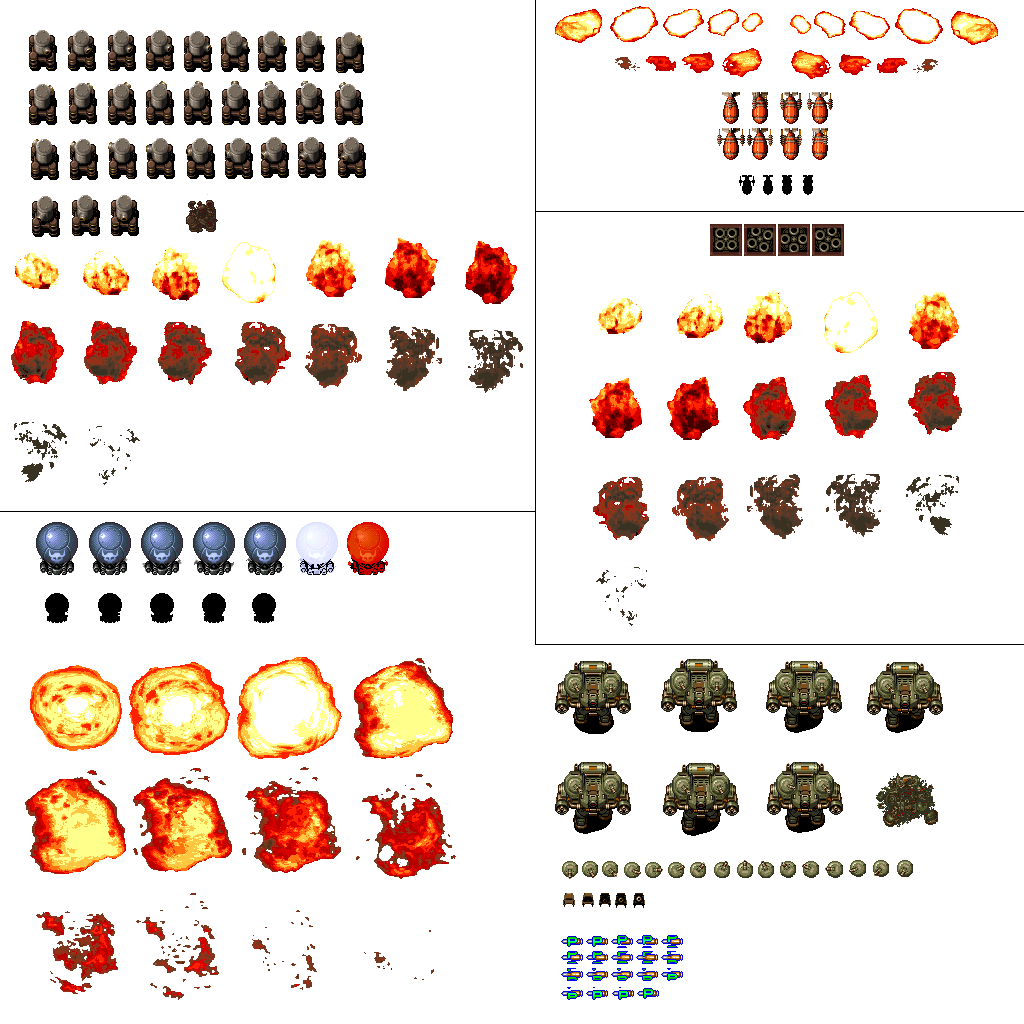
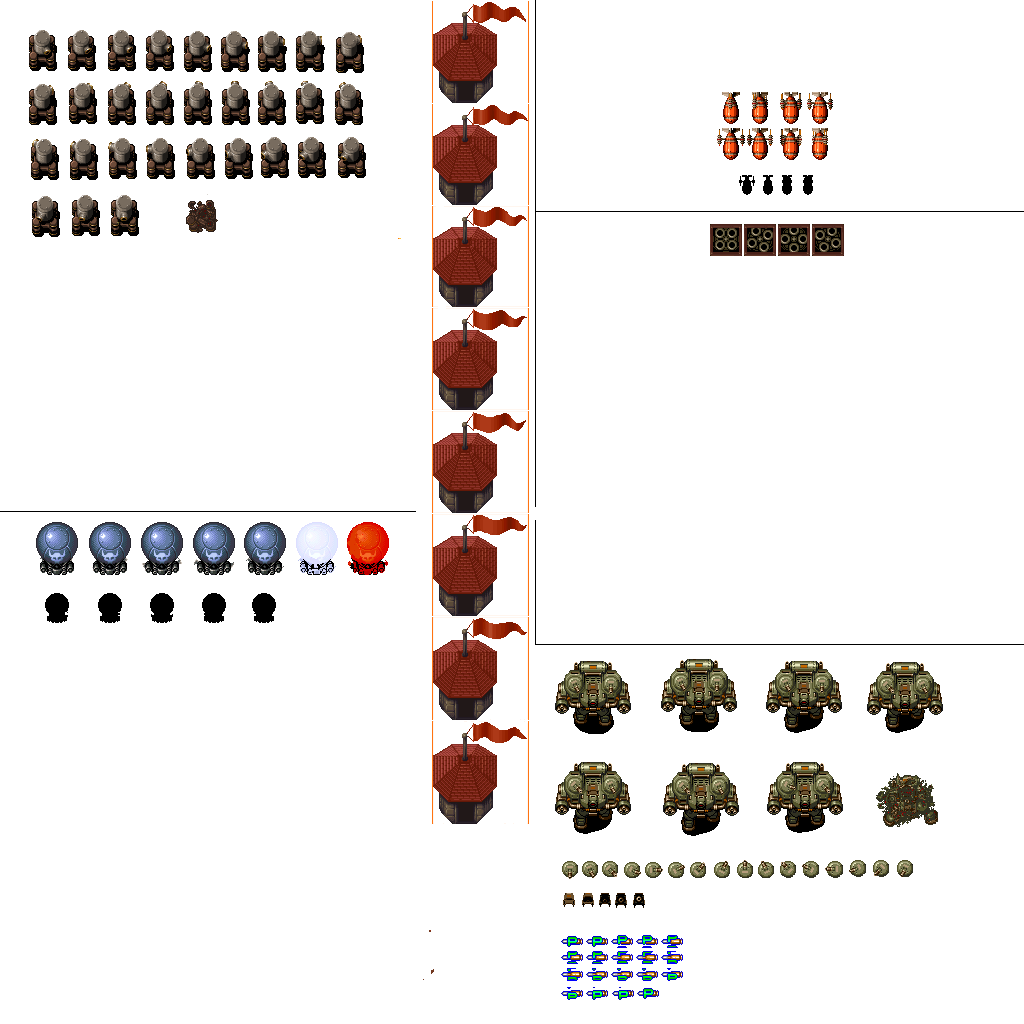
House Flag animation + lives

diff --git a/Gunbird/Gunbird/ModuleSceneCastle.cpp b/Gunbird/Gunbird/ModuleSceneCastle.cpp
@@ -46,27 +46,7 @@ ModuleSceneCastle::ModuleSceneCastle()
 	bridge_top.loop = false;
 	bridge_top_y = -710;
 
-	/*houseFlag.PushBack({ 472,1236,94,102 });
-	houseFlag.PushBack({ 573,1238,96,101 });  // !!!
-	houseFlag.PushBack({ 673,1238,96,101 }); //  !!!
-	houseFlag.PushBack({ 779,1238,96,101 }); //  !!!
-	houseFlag.PushBack({ 892,1237,94,102 });
-	houseFlag.PushBack({ 473,1383,95,102 });
-	houseFlag.PushBack({ 580,1382,95,103 });
-	houseFlag.PushBack({ 686,1382,95,103 });*/
-
-	houseFlag.PushBack({ 520, 943, 95, 101 });
-	houseFlag.PushBack({ 520, 1045, 95, 101 });
-	houseFlag.PushBack({ 520, 1147, 95, 101 });
-	houseFlag.PushBack({ 520, 1250, 95, 101 });
-	houseFlag.PushBack({ 520, 1353, 95, 101 });
-	houseFlag.PushBack({ 520, 1456, 95, 101 });
-	houseFlag.PushBack({ 520, 1560, 95, 101 });
-	houseFlag.PushBack({ 520, 1664, 95, 101 });
-
-	houseFlag.speed = 0.08f;
-	houseFlag.loop = true;
-
+	
 }
 
 ModuleSceneCastle::~ModuleSceneCastle()
@@ -88,7 +68,7 @@ bool ModuleSceneCastle::Start()
 	bridge_top.Reset();
 
 	houseFlag_y = -633;
-	houseFlag.Reset();
+	
 
 
 
@@ -118,12 +98,7 @@ bool ModuleSceneCastle::Start()
 		LOG("Cannot load the animations spritesheet in SceneCastle");
 		ret = false;
 	}
-	graphicsHouseFlag = App->textures->Load("Assets/maps/castle/castle_map_stuff.png");
-	if (graphicsHouseFlag == nullptr) {
-		LOG("Cannot load the animations spritesheet in SceneCastle");
-		ret = false;
-	}
-
+	
 	if (!App->audio->PlayMusic("Assets/audio/gunbird_welcome_CastleScreen_music.ogg"))
 		ret = false;
 	return ret;
@@ -140,7 +115,7 @@ update_status ModuleSceneCastle::Update()
 		background_y += speed;
 		soldier_left_y += speed;
 		bridge_top_y += speed;
-		houseFlag_y += speed;
+		
 	}
 
 	// Draw everything --------------------------------------
@@ -169,14 +144,6 @@ update_status ModuleSceneCastle::Update()
 			status = UPDATE_ERROR;
 		}
 	}
-
-	if (graphicsHouseFlag != nullptr) {
-		if (!App->render->Blit(graphicsHouseFlag, 149,  houseFlag_y + SCREEN_HEIGHT, &(houseFlag.GetCurrentFrame()), 0.75f)) {
-			LOG("Cannot blit the texture in SceneCastle %s\n", SDL_GetError());
-			status = UPDATE_ERROR;
-		}
-	}
-
 
 	if (App->input->keyboard[SDL_SCANCODE_F3] == KEY_STATE::KEY_DOWN && App->sceneCastle->IsEnabled())
 	{
@@ -226,6 +193,10 @@ update_status ModuleSceneCastle::Update()
 		App->enemies->AddEnemy(ENEMY_TYPES::TORPEDO, SCREEN_WIDTH + 40, 30, ENEMY_MOVEMENT::TORPEDO_HORIZONTALR_L);
 		App->enemies->AddEnemy(ENEMY_TYPES::TORPEDO, SCREEN_WIDTH + 80, 30, ENEMY_MOVEMENT::TORPEDO_HORIZONTALR_L);
 		App->enemies->AddEnemy(ENEMY_TYPES::TORPEDO, SCREEN_WIDTH + 120, 30, ENEMY_MOVEMENT::TORPEDO_HORIZONTALR_L);
+	}
+
+	if (background_y == -2000) {
+		App->enemies->AddEnemy(ENEMY_TYPES::CASTLE_HOUSEFLAG, 149, -275, ENEMY_MOVEMENT::NO_MOVEMENT);
 	}
 
 	/*if (background_y == -2000)

diff --git a/Gunbird/Gunbird/ModuleEnemies.cpp b/Gunbird/Gunbird/ModuleEnemies.cpp
@@ -8,6 +8,7 @@
 #include "Enemy_Torpedo.h"
 #include "Enemy_MetallicBalloon.h"
 #include "Enemy_TerrestialTurret.h"
+#include "SceneCastle_houseFlag.h"
 
 #include "Power_Up.h"
 
@@ -163,6 +164,10 @@ void ModuleEnemies::SpawnEnemy(const EnemyInfo& info)
 			enemies[i] = new Enemy_TerrestialTurret(info.x, info.y);
 			enemies[i]->type = ENEMY_TYPES::TERRESTIALTURRET;
 			break;
+		case ENEMY_TYPES::CASTLE_HOUSEFLAG:
+			enemies[i] = new SceneCastle_houseFlag(info.x, info.y);
+			enemies[i]->type = ENEMY_TYPES::CASTLE_HOUSEFLAG;
+			break;
 		case ENEMY_TYPES::POWER_UP:
 			enemies[i] = new Power_Up(info.x, info.y);
 			enemies[i]->type = ENEMY_TYPES::POWER_UP;
@@ -187,7 +192,7 @@ void ModuleEnemies::OnCollision(Collider* c1, Collider* c2)
 					break;  
 				}
 			}
-			/*if (enemies[i]->type == ENEMY_TYPES::TERRESTIALTURRET) {
+			else if (enemies[i]->type == ENEMY_TYPES::TERRESTIALTURRET) {
 				if (enemies[i]->getLives() == 0) {
 					App->particles->AddParticle(App->particles->terrestialTurretExplosion, (c1->rect.x - ((101 - (c1->rect.w)) / 2)), (c1->rect.y - ((107 - (c1->rect.h)) / 2)));
 					enemies[i] = nullptr;												// c1->rect.x - 31.5, c1->rect.y -27   
@@ -195,7 +200,7 @@ void ModuleEnemies::OnCollision(Collider* c1, Collider* c2)
 					LOG("Result is: %f", c1->rect.x - ((42 - (c1->rect.w)) / 2));
 					break;
 				}
-			}*/
+			}
 
 			else if(enemies[i]->type == ENEMY_TYPES::TORPEDO){
 				if (c2->type == COLLIDER_TYPE::COLLIDER_PLAYER_SHOT) {
@@ -206,10 +211,20 @@ void ModuleEnemies::OnCollision(Collider* c1, Collider* c2)
 					break;
 				}
 			}
+
 			else if (enemies[i]->type == ENEMY_TYPES::POWER_UP && c2->type == COLLIDER_TYPE::COLLIDER_PLAYER) {
 				delete enemies[i];
 				enemies[i] = nullptr;
 				break;
+			}
+			else if (enemies[i]->type == ENEMY_TYPES::CASTLE_HOUSEFLAG) {
+				if (enemies[i]->getLives() == 0) {
+					if (c2->type == COLLIDER_TYPE::COLLIDER_PLAYER_SHOT) {
+						delete enemies[i];
+						enemies[i] = nullptr;
+						break;
+					}
+				}
 			}
 		}
 	}

diff --git a/Gunbird/Gunbird/SceneCastle_houseFlag.cpp b/Gunbird/Gunbird/SceneCastle_houseFlag.cpp
@@ -1,0 +1,41 @@
+#include "Application.h"
+#include "SceneCastle_houseFlag.h"
+#include "ModuleCollision.h"
+#include "Path.h"
+
+SceneCastle_houseFlag::SceneCastle_houseFlag(int x, int y) : Enemy(x, y)
+{
+	
+	lives = 12;
+
+	houseFlag.PushBack({ 433, 2, 95, 100 });
+	houseFlag.PushBack({ 433, 104, 95, 100 });
+	houseFlag.PushBack({ 433, 206, 95, 101 });
+	houseFlag.PushBack({ 433, 309, 95, 101 });
+	houseFlag.PushBack({ 433, 412, 95, 101 });
+	houseFlag.PushBack({ 433, 515, 95, 101 });
+	houseFlag.PushBack({ 433, 619, 95, 103 });
+	houseFlag.PushBack({ 433, 723, 95, 103 });
+
+	houseFlag.speed = 0.08f;
+	houseFlag.loop = true;
+
+	animation = &houseFlag;
+
+	original_pos.x = x;
+	original_pos.y = y;
+
+	collider = App->collision->AddCollider({ 0, 0, 95, 101 }, COLLIDER_TYPE::COLLIDER_ENEMY, (Module*)App->enemies);
+}
+
+void SceneCastle_houseFlag::Move()
+{
+	position.y += 1;
+}
+
+void SceneCastle_houseFlag::OnCollision(Collider* collider) {
+	lives--;
+}
+uint SceneCastle_houseFlag::getLives() {
+	return lives;
+}

diff --git a/Gunbird/Gunbird/SceneCastle_houseFlag.h b/Gunbird/Gunbird/SceneCastle_houseFlag.h
@@ -1,0 +1,25 @@
+#ifndef __SceneCastle_houseFlag_H__
+#define __SceneCastle_houseFlag_H__
+
+#include "Enemy.h"
+
+
+class SceneCastle_houseFlag : public Enemy
+{
+private:
+	Animation houseFlag;
+	iPoint original_pos;
+
+public:
+
+	
+	SceneCastle_houseFlag(int x, int y);
+	void Move();
+	void OnCollision(Collider* collider);
+
+	uint lives;
+	uint getLives();
+};
+
+#endif
+

diff --git a/Gunbird/Gunbird/ModuleSceneCastle.h b/Gunbird/Gunbird/ModuleSceneCastle.h
@@ -19,7 +19,6 @@ private:
 	Animation bridge_top;
 	uint bridge_top_y;
 	
-	Animation houseFlag;
 	uint houseFlag_y;
 
 public:

diff --git a/Gunbird/Gunbird/ModuleEnemies.h b/Gunbird/Gunbird/ModuleEnemies.h
@@ -12,6 +12,7 @@ enum ENEMY_TYPES
 	TORPEDO,
 	METALLICBALLOON,
 	TERRESTIALTURRET,
+	CASTLE_HOUSEFLAG,
 
 
 	POWER_UP
